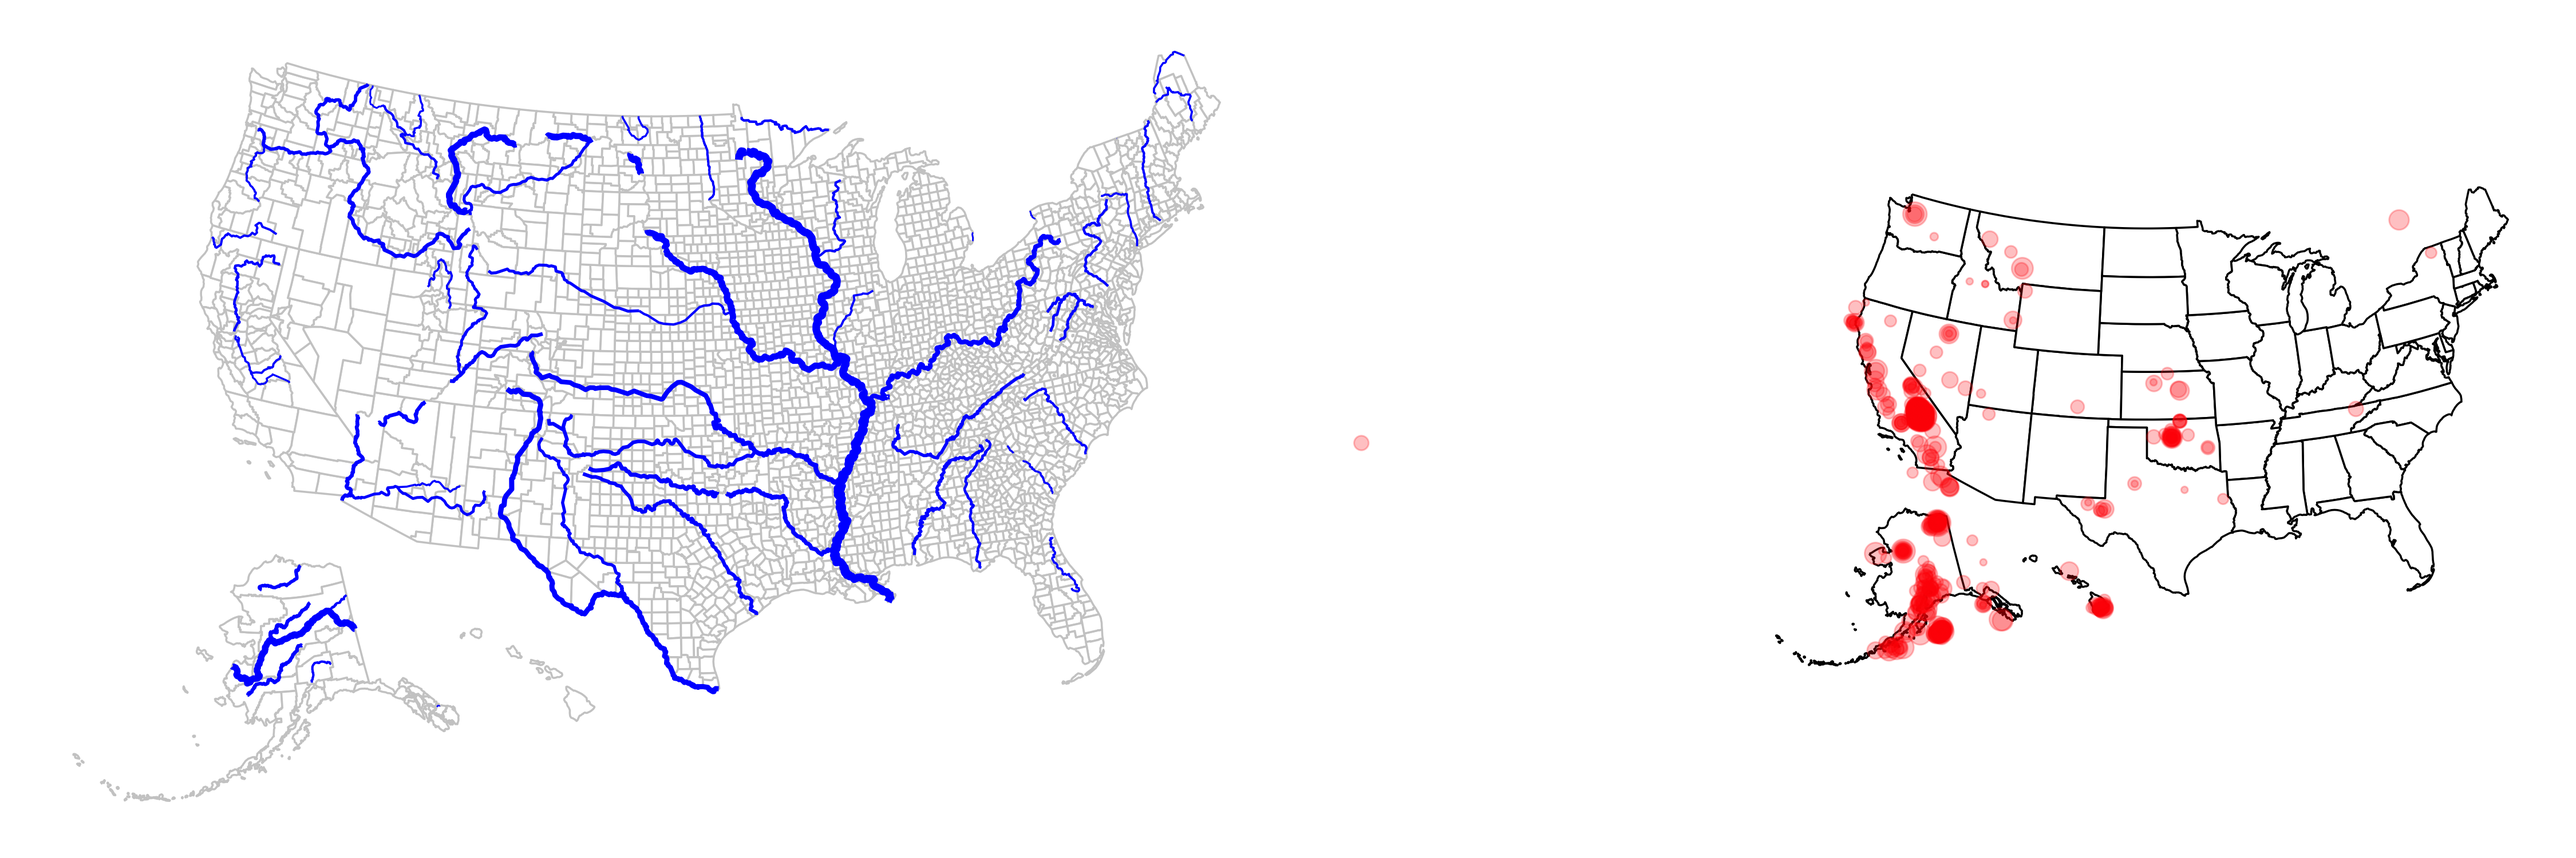
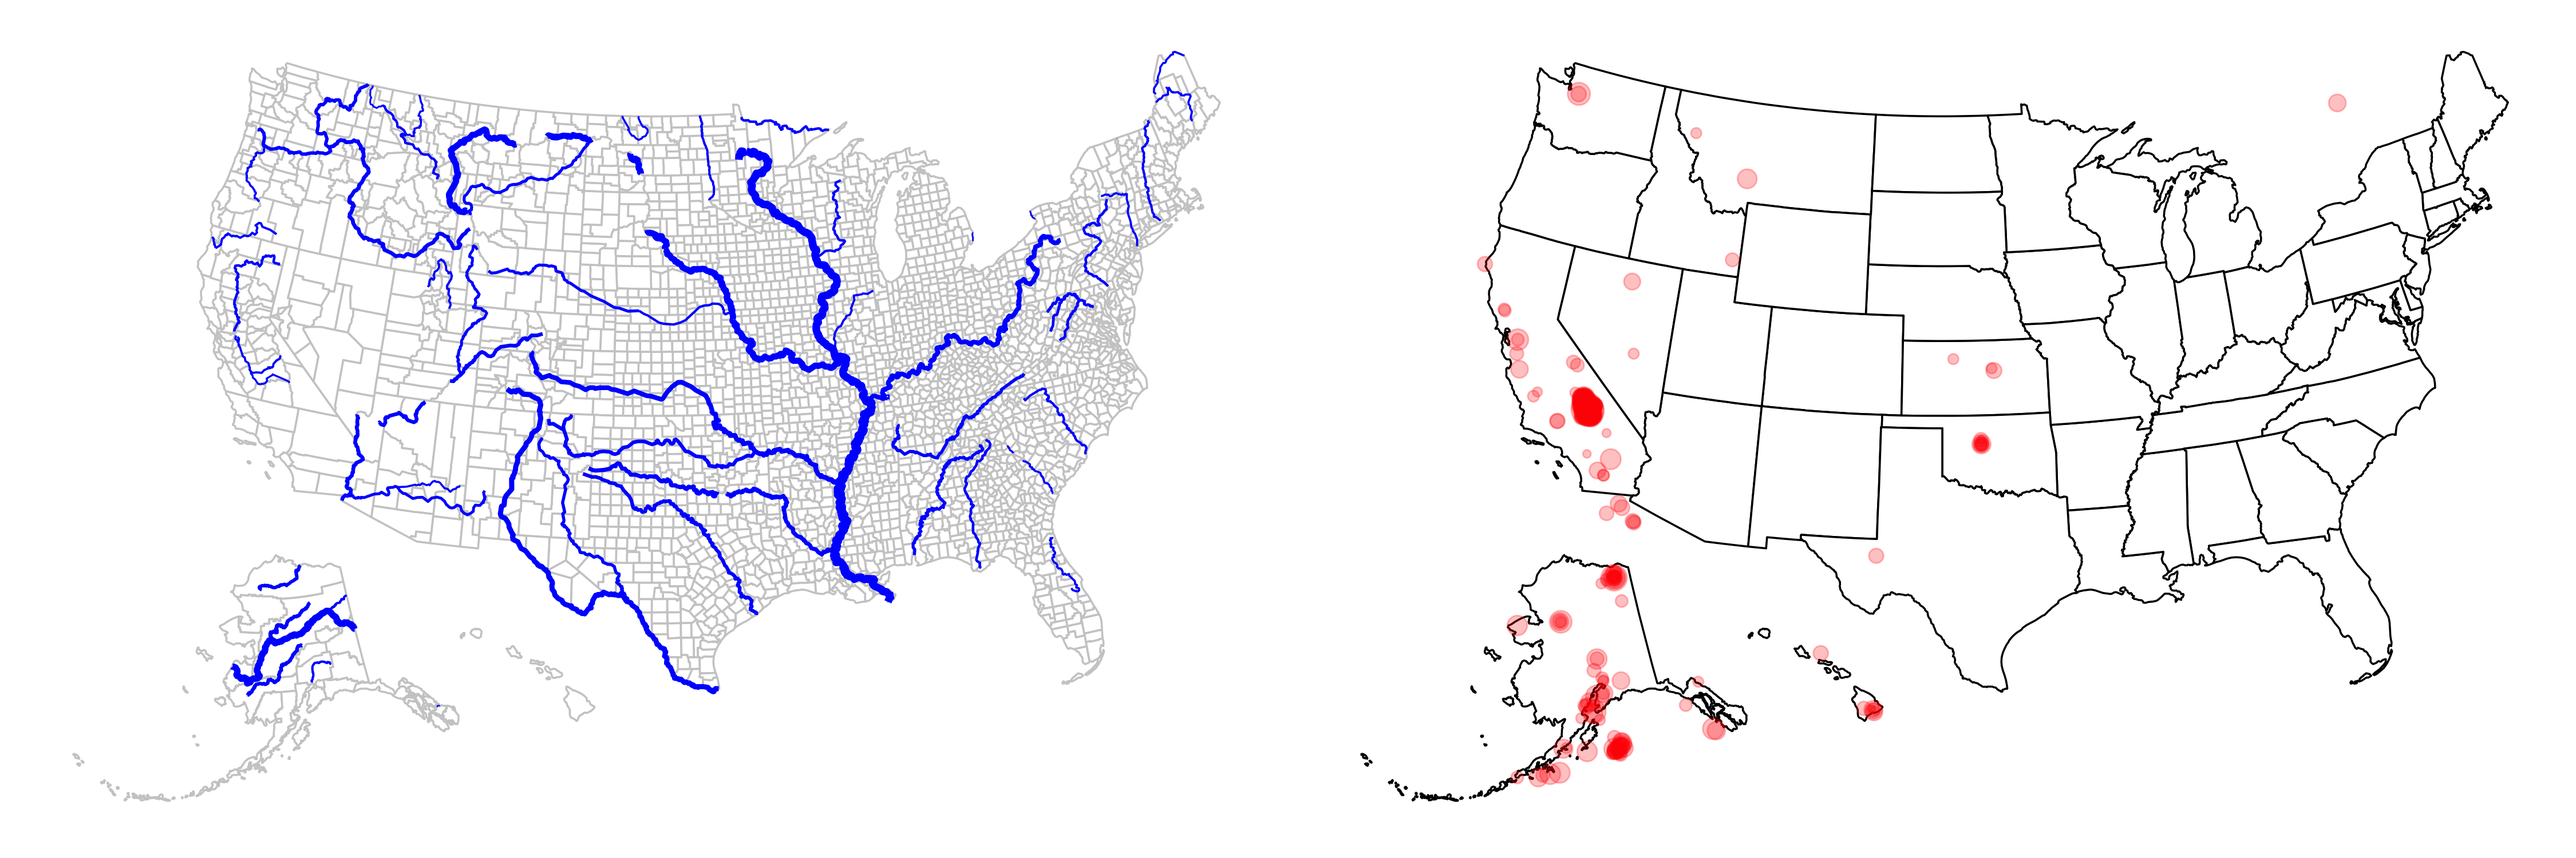
Fix plots in readme

diff --git a/README.md b/README.md
@@ -121,10 +121,10 @@ library(ggplot2)
 
 mt <- plot_usmap("states", include = .mountain, labels = TRUE)
 
-fl <- plot_usmap("counties", data = countypov, values = "pct_pov_2021", include = "FL") +
+fl <- plot_usmap("counties", data = countypov, values = "pct_pov_2021", include = "FL", data_year = 2021) +
   scale_fill_continuous(low = "green", high = "red", guide = "none")
 
-ne <- plot_usmap("counties", data = countypop, values = "pop_2022", include = .new_england) +
+ne <- plot_usmap("counties", data = countypop, values = "pop_2022", include = .new_england, data_year = 2022) +
   scale_fill_continuous(low = "blue", high = "yellow", guide = "none")
 
 cowplot::plot_grid(mt, fl, ne, nrow = 1)
@@ -145,7 +145,8 @@ river_map <- plot_usmap("counties", color = "gray80") +
   scale_linewidth_continuous(range = c(0.3, 1.5), guide = "none")
 
 # Transform included `earthquakes` data set
-eq_transformed <- usmap_transform(earthquakes)
+earthquakes_above_mag_3 <- earthquakes[earthquakes$mag > 3, ]
+eq_transformed <- usmap_transform(earthquakes_above_mag_3)
 
 earthquake_map <- plot_usmap() +
   geom_sf(data = eq_transformed, aes(size = mag), color = "red", alpha = 0.25) +
@@ -280,20 +281,16 @@ required!), you may do so in the following way:
 citation("usmap")
 #> To cite package 'usmap' in publications use:
 #> 
-#>   Di Lorenzo P (2024). _usmap: US Maps Including Alaska and Hawaii_.
-#>   doi:10.32614/CRAN.package.usmap
-#>   <https://doi.org/10.32614/CRAN.package.usmap>, R package version
-#>   0.7.1, <https://CRAN.R-project.org/package=usmap>.
+#>   Di Lorenzo P (2025). _usmap: US Maps Including Alaska and Hawaii_. R
+#>   package version 0.8.0, <https://usmap.dev>.
 #> 
 #> A BibTeX entry for LaTeX users is
 #> 
 #>   @Manual{,
 #>     title = {usmap: US Maps Including Alaska and Hawaii},
 #>     author = {Paolo {Di Lorenzo}},
-#>     year = {2024},
-#>     note = {R package version 0.7.1},
-#>     url = {https://CRAN.R-project.org/package=usmap},
-#>     doi = {10.32614/CRAN.package.usmap},
+#>     note = {R package version 0.8.0},
+#>     url = {https://usmap.dev},
 #>   }
 ```
 
